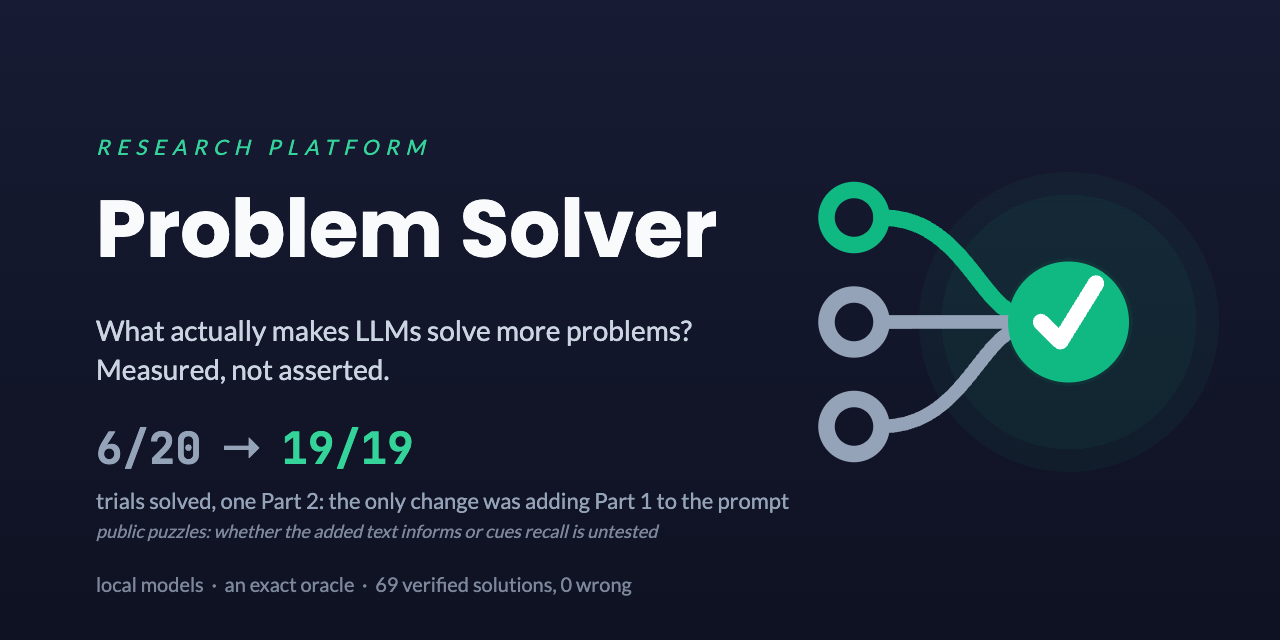
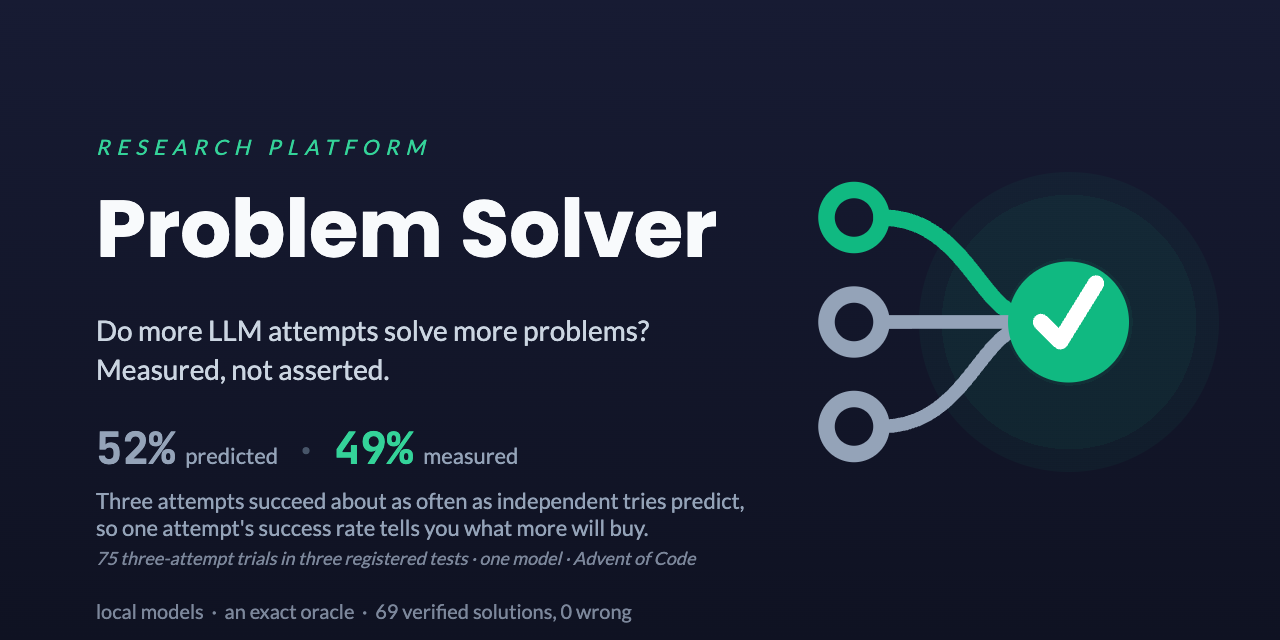
Lead the card with the finding about the question itself: 52% predicted, 49% measured
Across the three registered k1-vs-k3 tests, three drafts solved 49% of 75 trials (drafts only,
before repair) where independent tries predicted 52% from the single-draft rates. That is the
project's most consistent result about whether more attempts help, and the card now asks and
answers that question. The pooled figure is used rather than the closest single pair (49 vs 50).
RESULTS gains the three-test table with a drafts-only column and a pooled row; the abstract,
short answer and README state it as the main finding about the thesis, beside the harness
finding, which stays the largest effect. Recomputed as a claim (21/21).

Changed region(s): [[0.0625, 0.6562, 0.625, 0.9688], [0.0625, 0.5, 0.5625, 0.5312]]

diff --git a/assets/social-preview.html b/assets/social-preview.html
@@ -22,6 +22,8 @@
   .stat { font-family: "JetBrains Mono", monospace; font-weight: 700; font-size: 44px; margin-top: 30px; color: #94a3b8; }
   .stat .to { color: #34d399; }
   .stat .arrow { font-family: Lato, sans-serif; margin: 0 18px; }
+  .stat .label { font-family: Lato, sans-serif; font-weight: 400; font-size: 22px; color: #94a3b8; margin-left: 10px; }
+  .stat .sep { font-family: Lato, sans-serif; font-weight: 400; margin: 0 22px; color: #475569; }
   .caption { font-size: 22px; color: #94a3b8; margin-top: 10px; }
   .caveat { font-size: 18px; color: #7c879b; margin-top: 6px; font-style: italic; }
   .footer { font-size: 20px; color: #7c879b; margin-top: 30px; }
@@ -38,10 +40,10 @@
   <div class="text">
     <div class="kicker">RESEARCH PLATFORM</div>
     <h1>Problem Solver</h1>
-    <div class="question">What actually makes LLMs solve more problems?<br>Measured, not asserted.</div>
-    <div class="stat">6/20<span class="arrow">&rarr;</span><span class="to">19/19</span></div>
-    <div class="caption">trials solved, one Part 2: the only change was adding Part 1 to the prompt</div>
-    <div class="caveat">public puzzles: whether the added text informs or cues recall is untested</div>
+    <div class="question">Do more LLM attempts solve more problems?<br>Measured, not asserted.</div>
+    <div class="stat"><span class="predicted">52%</span><span class="label">predicted</span><span class="sep">&middot;</span><span class="to">49%</span><span class="label">measured</span></div>
+    <div class="caption">Three attempts succeed about as often as independent tries predict,<br>so one attempt's success rate tells you what more will buy.</div>
+    <div class="caveat">75 three-attempt trials in three registered tests · one model · Advent of Code</div>
     <div class="footer">local models &nbsp;&middot;&nbsp; an exact oracle &nbsp;&middot;&nbsp; 69 verified solutions, 0 wrong</div>
   </div>
   <div class="halo"></div>

diff --git a/dev/recompute_results.py b/dev/recompute_results.py
@@ -255,6 +255,32 @@ def replication_timeouts() -> str:
             f"{len(passed)} passed the example")
 
 
+def independence_checks() -> str:
+    """The three registered k1-vs-k3 tests: per-draft rate from both arms' first-pass drafts in
+    trials that reached Part 2, the predicted three-draft rate 1 - (1 - p)^3, and the k3 arm's
+    rate solved by a draft (before repair); then pooled over the three tests' k3 trials."""
+    tests = [("_m5pro-d19p2-k1-n20_", "_m5pro-d19p2-k3-n20_", "2024_day19_part2"),
+             ("_m5pro-d9p2-power-aoc-k1_", "_m5pro-d9p2-power-aoc-k3_", "2025_day09_part2"),
+             ("_m5pro-d9p2-rep-k1-b", "_m5pro-d9p2-rep-k3-b", "2025_day09_part2")]
+    parts, expected, measured, trials = [], 0.0, 0, 0
+    for k1, k3, cell in tests:
+        both = {n for n in RUNS if k1 in n or k3 in n}
+        reached = {(t["run"], t["trial"]) for t in TRIALS
+                   if t["run"] in both and t["problem_id"] == cell and t["outcome"] != "not_reached"}
+        drafts = [a for a in ATTEMPTS if (a["run"], a["trial"]) in reached
+                  and a["problem_id"] == cell and a["stage"] == "generate"]
+        p = sum(a["outcome"] == "solved" for a in drafts) / len(drafts)
+        k3_trials = {key for key in reached if k3 in key[0]}
+        by_draft = sum(any(a["outcome"] == "solved" for a in drafts if (a["run"], a["trial"]) == key)
+                       for key in k3_trials)
+        predicted = 1 - (1 - p) ** 3
+        parts.append(f"{predicted:.0%} vs {by_draft}/{len(k3_trials)}")
+        expected += predicted * len(k3_trials)
+        measured += by_draft
+        trials += len(k3_trials)
+    return f"{'; '.join(parts)}; pooled {expected / trials:.0%} vs {measured / trials:.0%} of {trials}"
+
+
 def arm1_replication() -> str:
     """2025 d9 p2, k1 against k3, every trial posed Part 2 (registered replication, 7 blocks per arm)."""
     cell = ["2025_day09_part2"]
@@ -362,8 +388,7 @@ CLAIMS = [
           {"RESULTS.md": ["those Part 2s were 13/71 on\nrecord and 32/40 after"]}),
     Claim("d19 p2 controlled A/B", d19_ab, "6/20 -> 19/19, p = 2.6e-06",
           {"RESULTS.md": ["| 6/20 | **19/19** (one-sided Fisher p = 2.6e-6) |"],
-           "README.md": ["took one problem from 6/20 to 19/19"],
-           "assets/social-preview.html": ['class="stat">6/20<', 'class="to">19/19<']}),
+           "README.md": ["took one problem from 6/20 to 19/19"]}),
     Claim("arm 1, original harness", arm1_original,
           "10/24 -> 9/12 (blind 7/12), p 0.061; 2025 2/8 -> 6/6, p 0.009; combined 0.005",
           {"RESULTS.md": ["| 2024 alone | 10/24 → 9/12 (+33 points, 95% interval −1 to +57) | **p ≈ 0.061 — marginal** |",
@@ -382,6 +407,12 @@ CLAIMS = [
     Claim("2025 d9 p2 replication timeouts", replication_timeouts,
           "45 of 140 drafts; 138 of 249 rejected; 94 passed the example",
           {"RESULTS.md": ["138 of 249 on 2025 d9 p2", "and 94 of the 138"]}),
+    Claim("independence check, three registered tests", independence_checks,
+          "49% vs 10/20; 61% vs 13/20; 49% vs 14/35; pooled 52% vs 49% of 75",
+          {"RESULTS.md": ["| 16/80 (20%) | 49% | 50% (10/20) |", "| 20/75 (27%) | 61% | 65% (13/20) |",
+                          "| 28/140 (20%) | 49% | 40% (14/35) |", "| **52%** (39 expected) | **49%** (37) |"],
+           "README.md": ["three drafts solved 49% of 75 trials where the single-draft rates predicted 52%"],
+           "assets/social-preview.html": ['class="predicted">52%<', 'class="to">49%<']}),
     Claim("arm 1, registered replication on 2025 d9 p2", arm1_replication, "13/35 -> 16/35, p 0.31",
           {"RESULTS.md": ["| solved | 13/35 (37%) | 16/35 (46%) | **p = 0.31 — not re-established** |",
                           "replication at 13/35 against 16/35 (one-sided p = 0.31;"],

diff --git a/RESULTS.md b/RESULTS.md
@@ -21,9 +21,11 @@ statement, and restoring it took single drafts on one problem from 6/20 to 19/19
 changed. (2) Under the original harness, three drafts with repair raised the solve rate on the
 reference model's "sometimes" problems from 42% to 75%, replicated on a second year; under the
 corrected harness that lift was not re-established: on the one problem with a mid-range per-draft
-rate, a registered replication gave 13/35 against 16/35 (one-sided p = 0.31). In all three tests
-that measured it, drafts behaved as independent tries, so sampling's gain follows from the
-per-draft rate. (3) One candidate model solved a problem the reference rarely solved (10/10
+rate, a registered replication gave 13/35 against 16/35 (one-sided p = 0.31). The most consistent
+finding about the question itself: in all three registered tests, three drafts did about as well
+as independent tries predict from the single-draft rate (52% predicted, 49% measured over 75
+three-draft trials), so what extra attempts buy can be estimated in advance, and it is large only
+where one attempt succeeds part of the time. (3) One candidate model solved a problem the reference rarely solved (10/10
 against 1/10), and no problem was found the other way, so a mix of the two was not run. (4) Repair
 contributed 13 of the reference model's 300 solves.
 
@@ -43,8 +45,10 @@ Each is detailed under [Scope and limits](#scope-and-limits) and
   test is the cleaner measure. What looked like a capability limit was mostly missing
   information. The puzzles are public, so the added text may also cue recall; that is not yet
   separated (see contamination).
-- **Sampling: a gain under the original harness, not re-established under the corrected one;
-  the draws behave as independent throughout.** Under the original harness, three attempts with
+- **Extra attempts pay off as independent tries predict; sampling gained under the original
+  harness and was not re-established under the corrected one.** Across the three registered tests,
+  three drafts solved 49% of 75 trials where the single-draft rates predicted 52%, so the gain from
+  more attempts follows from how often one attempt succeeds. Under the original harness, three attempts with
   repair took the model's "sometimes" problems from 42% to 75%, replicated on a second year
   (combined one-sided p ≈ 0.005). Under the corrected harness most problems are solved by nearly
   every draft or by nearly none, three drafts gave no measurable lift (9/19 against 11/21), and on
@@ -269,6 +273,25 @@ times in 80 (20%), three independent drafts at that rate solve 49% of trials, an
 solved 50% (`m5pro-d19p2-power.md`). The draws behave as independent, so sampling's gain follows
 from the per-draft rate.
 *(`passk-ab-d13-d15.md`, `topology-parallel3.md`, `passk-replication-2025.md`.)*
+
+**The independence check across the three registered tests.** In each, the first-pass drafts of
+both arms give a per-draft rate *p*; independent draws then predict 1 − (1 − *p*)³ for a
+three-draft trial, compared here with the three-draft arm's rate *before repair* (a trial solved by
+one of its three drafts), which is what the prediction is about:
+
+| test | drafts correct | predicted at three drafts | measured, drafts only |
+|---|---|---|---|
+| 2024 d19 p2, original harness (`m5pro-d19p2-power.md`) | 16/80 (20%) | 49% | 50% (10/20) |
+| 2025 d9 p2, power test (`m5pro-d9p2-power-aoc.md`) | 20/75 (27%) | 61% | 65% (13/20) |
+| 2025 d9 p2, replication (`m5pro-d9p2-replication.md`) | 28/140 (20%) | 49% | 40% (14/35) |
+| **all three, 75 three-draft trials** | | **52%** (39 expected) | **49%** (37) |
+
+Each prediction lies inside the 95% Wilson interval of its measured rate; two measured rates are
+above the prediction and one below, with no systematic gap. (The replication's registered check counted its two repair
+rescues as well, 46%.) This is the project's most consistent finding about its question: what
+extra drafts buy follows from the single-draft rate, so it can be estimated before the compute
+is spent, and it is large only where one draft succeeds part of the time. It rests on one model and
+two problems, and the intervals are wide (each test is 20 or 35 trials per arm).
 
 ### Arm 2 — Cheap draws win on time and lose on tokens
 

diff --git a/README.md b/README.md
@@ -23,8 +23,10 @@ and, more to the point, whether that could be *measured* rather than asserted.
 >   apparent capability cliff was mostly missing information. *Caveat:* the puzzles are public,
 >   and the added Part 1 text is also their published wording, which may cue recall; a test that
 >   separates the two is planned.
-> - **Sampling can only help where a single draft succeeds part of the time**, because draws
->   behave as independent. It took the model's "sometimes" problems from **42% to 75%** under the
+> - **Extra attempts pay off about as independent tries predict.** In three registered tests,
+>   three drafts solved 49% of 75 trials where the single-draft rates predicted 52%, so how often
+>   one attempt succeeds tells you what more attempts will buy: a lot in the middle, little near
+>   0% or 100%. Sampling therefore only helps where a single draft succeeds part of the time. It took the model's "sometimes" problems from **42% to 75%** under the
 >   original harness, replicated on a second year. Under the corrected harness few problems sit in that
 >   band, and on the one that does, 2025 d9 p2, the lift was not re-established: a registered
 >   replication gave 13/35 at one draft and 16/35 at three (one-sided p = 0.31; 95% interval for
@@ -114,8 +116,10 @@ it. In order of how much they changed the project:
 1. **The harness, not the strategy, was the biggest effect.** A Part 2 prompt without its Part 1
    statement looked like a capability cliff; restoring it took one problem from 6/20 to 19/19
    with nothing else changed. → [The harness hid Part 1](RESULTS.md#the-harness-hid-part-1-and-that-looked-like-a-capability-limit)
-2. **Sampling** lifted the "sometimes" problems under the original harness and was not
-   re-established under the corrected one; drafts behave as independent tries throughout.
+2. **Extra attempts pay off as independent tries predict** (52% predicted, 49% measured, three
+   tests), so their value follows from one attempt's success rate. Sampling lifted the
+   "sometimes" problems under the original harness and was not re-established under the
+   corrected one.
    → [Arm 1](RESULTS.md#arm-1--sampling-at-the-frontier)
 3. **A second model helped by being chosen, not mixed.** → [Arm 3](RESULTS.md#arm-3--choose-the-better-model-a-mix-had-nothing-to-add)
 4. **Cheap draws win on time and lose on tokens** (one trial). → [Arm 2](RESULTS.md#arm-2--cheap-draws-win-on-time-and-lose-on-tokens)
